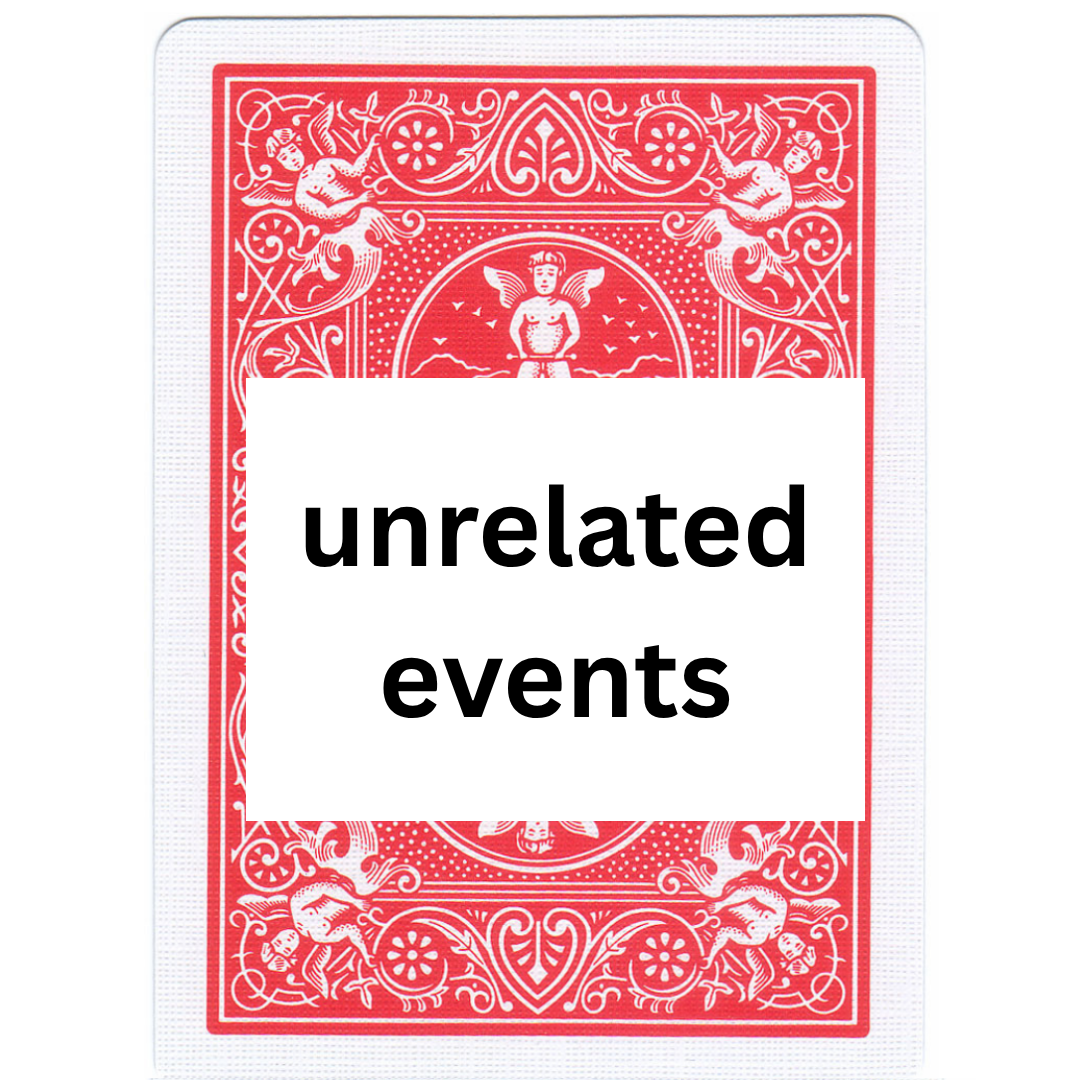
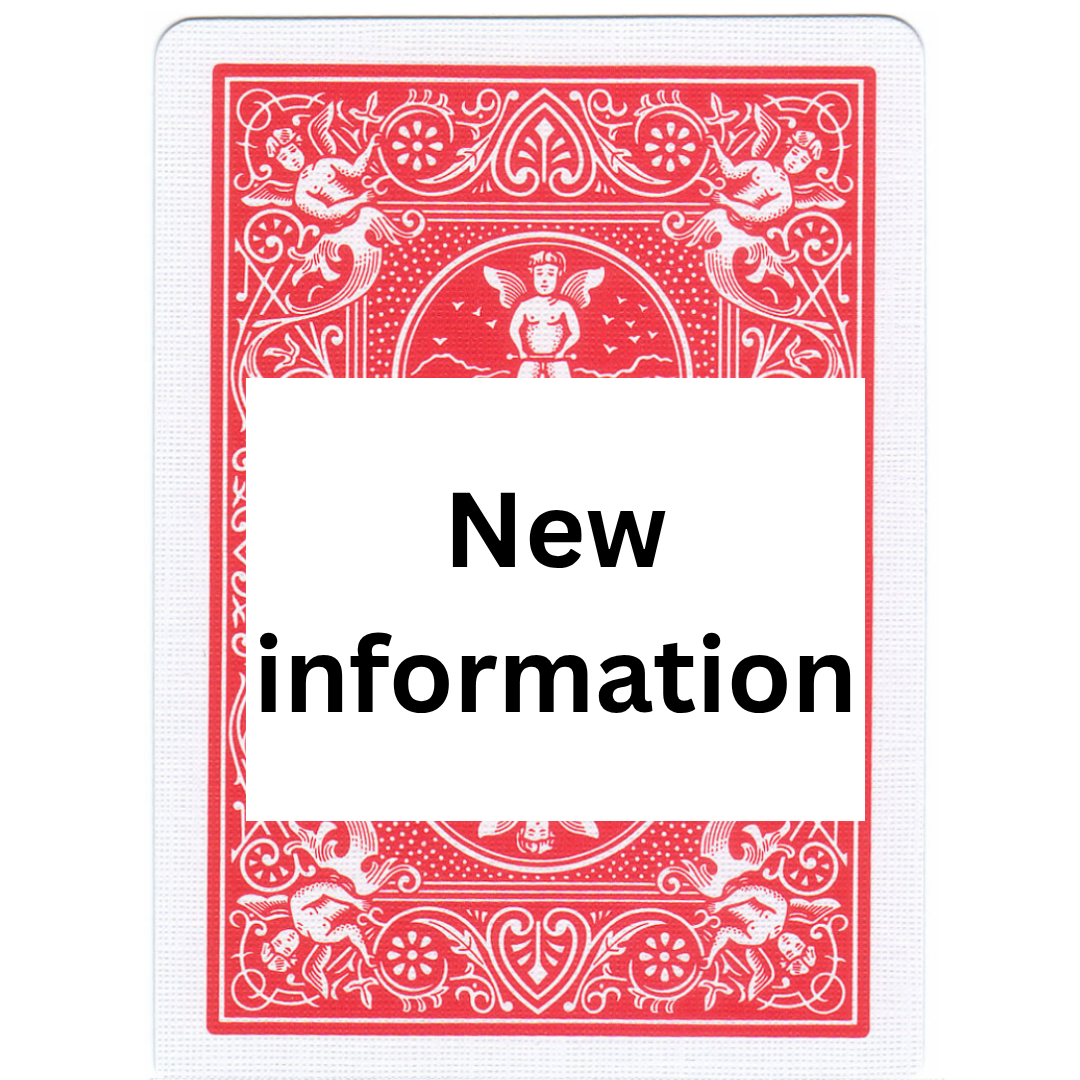
first commit

Changed region(s): [[0.2444, 0.5806, 0.7944, 0.6722], [0.275, 0.4278, 0.7639, 0.55]]

diff --git a/reward_2025_2.html b/reward_2025_2.html
@@ -108,8 +108,8 @@ var instructions_deck_choice = {
     '<p><b>After each choice, you will see a short sequence of sentences.</b></p>' +
     '<div style="border: 2px solid #333; border-radius: 12px; padding: 25px; margin: 35px 0; background-color: #f5f5f5;">' +
     '<p style="font-size: 22px; font-weight: bold; text-align: center; line-height: 1.6;">' +
-    'The <span style="color: blue;">blue deck</span> reveals a sequence that forms one coherent story — each event continues naturally from the previous one.<br><br>' +
-    'The <span style="color: red;">red deck</span> reveals a sequence of surprising but <b>unrelated</b> events that do not form a continuous story.' +
+    'The <span style="color: blue;">blue deck</span> continues the story — each event follows naturally from what happened before, forming one coherent sequence.<br><br>' +
+    'The <span style="color: red;">red deck</span> presents an event that does <b>not continue</b> the story, but instead reveals something <b>new or unexpected</b> about the situation.' +
     '</p>' +
     '</div>' +
     '<p>As you go along, try to notice the differences between the two decks and choose the one that feels more engaging or meaningful to you.</p>' +
